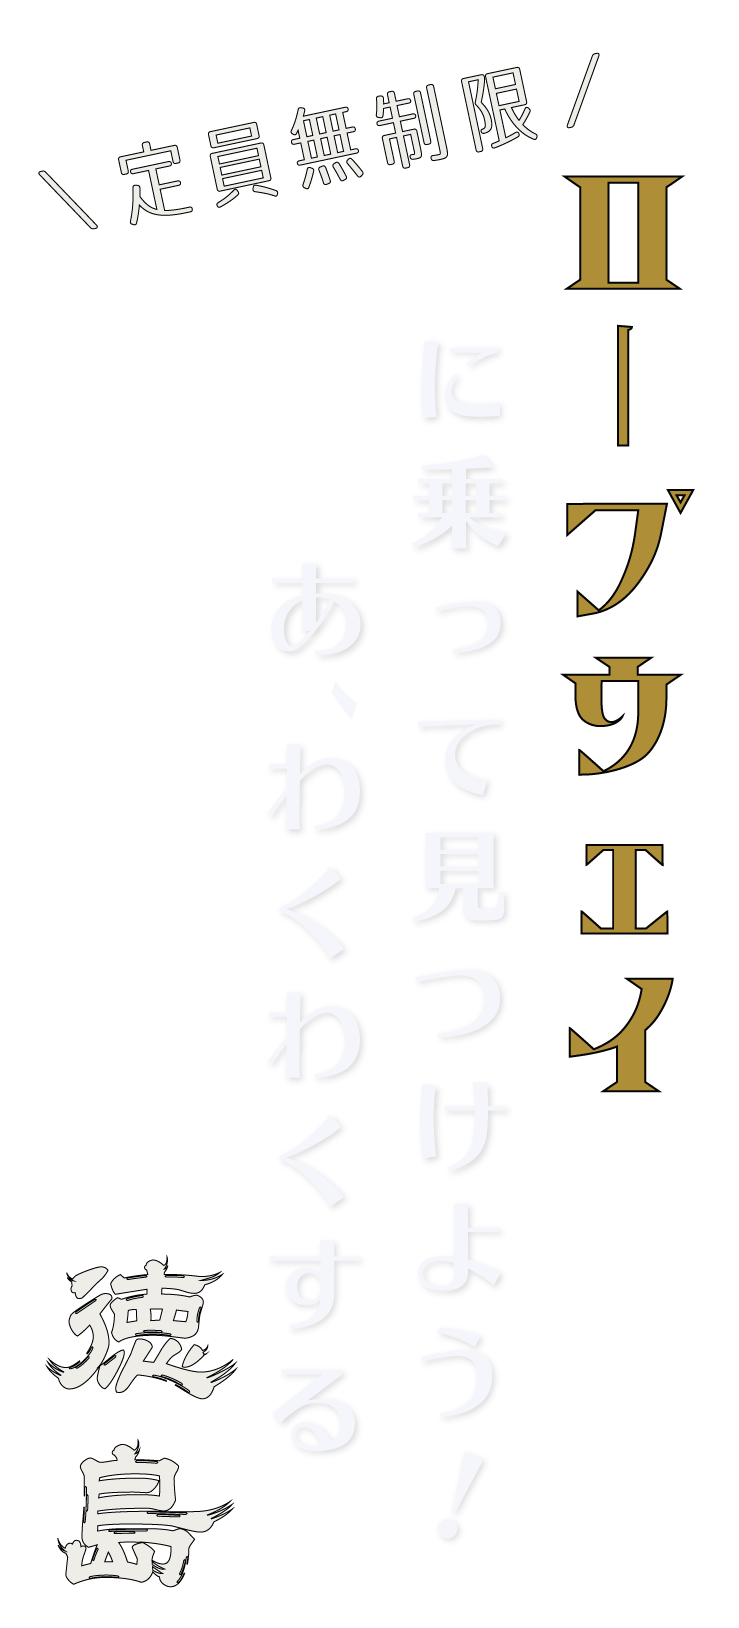
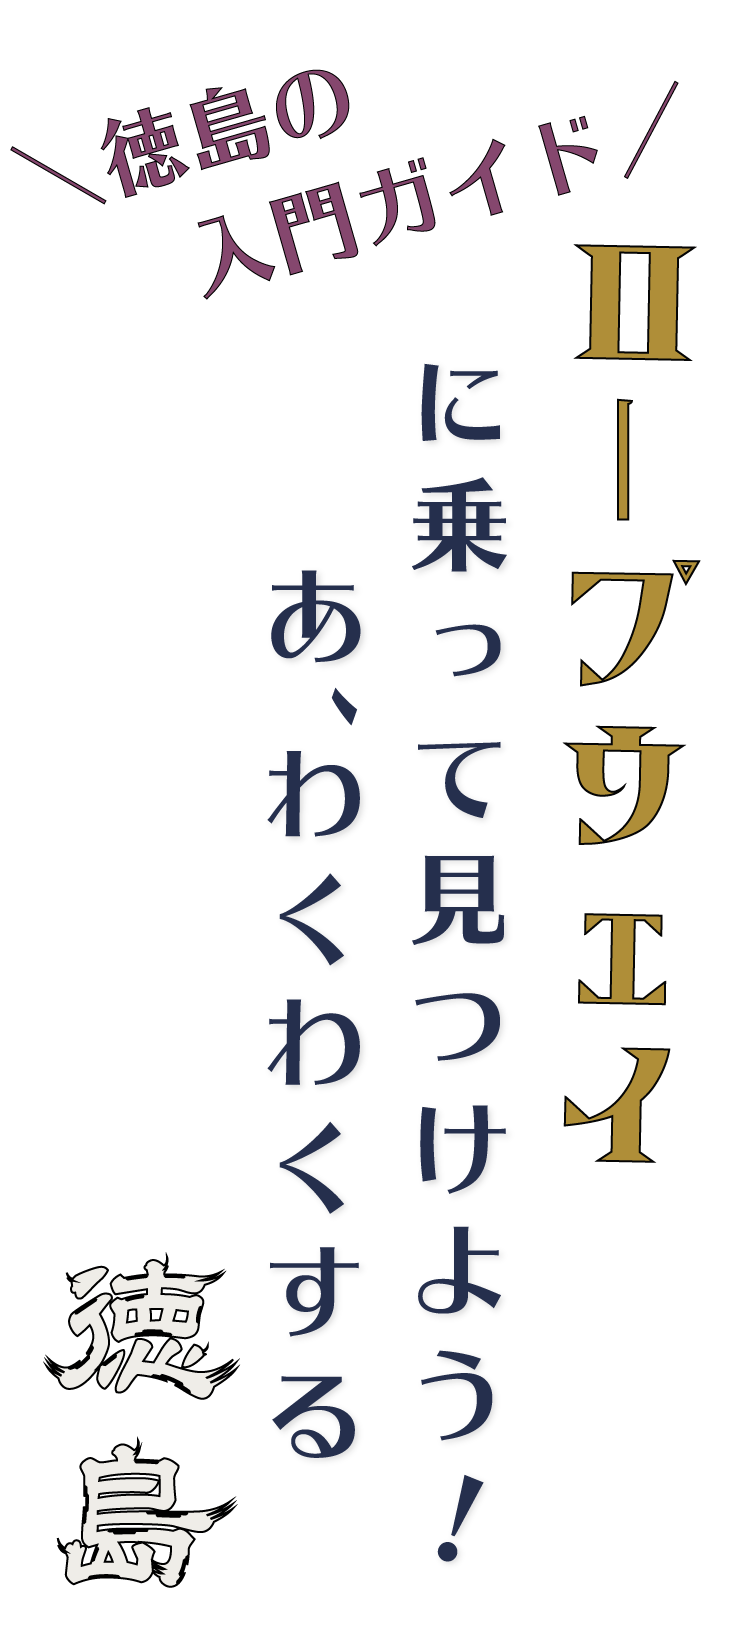
新しいコードを追加

diff --git a/assets/js/sogo_common.js b/assets/js/sogo_common.js
@@ -1,22 +1,3 @@
-// //スライドさせるボタンのID
-// const SLIDE_IN_BUTTON = document.getElementById("c-elevatorOpen");
-// //スライドを閉じるボタンのID
-// const SLIDE_OFF_BUTTON = document.getElementById("c-elevatorClose");
-// //アニメーションを追加する場所のID
-// const BURGER = document.getElementById("p-header__contentsBurger");
-// //スライドさせる。（クラス名「slide-in」を追加する。）
-// SLIDE_IN_BUTTON.addEventListener("click", function () {
-//     //クラスを切り替える
-//     BURGER.classList.remove("slide-off");
-//     BURGER.classList.add("slide-in");
-// });
-// //スライドを閉じる。クラス名「slide-off」を追加する。
-// SLIDE_OFF_BUTTON.addEventListener("click", function () {
-//     //クラスを切り替える
-//     BURGER.classList.remove("slide-in");
-//     BURGER.classList.add("slide-off");
-// });
-
 // ヘッダーナビ
 jQuery(function () {
     jQuery('.p-header__navListDetail').hide();
@@ -76,71 +57,3 @@ jQuery('.c-footer__contentsPartsBtn').on("click", function () {
             })
     }
 });
-
-// 地下からのページ内リンク
-jQuery('#page-link a[href^="#"]').click(function () {
-    var adjust = 120;
-    var speed = 400;
-    var elmHash = jQuery(this).attr('href');
-    var pos = jQuery(elmHash).offset().top - adjust;
-    console.log('hello');
-    jQuery('body,html').animate({ scrollTop: pos }, speed, 'swing');
-    return false;
-});
-
-// // ヘッダーナビ
-// jQuery(function () {
-//     jQuery('.p-header__navListDetail').hide();
-//     jQuery('.p-header__navList').click(function () {
-//         jQuery(this).next('.p-header__navListDetail').slideToggle();
-//         jQuery('.p-header__navList').not(jQuery(this)).next('.p-header__navListDetail').slideUp();
-//     });
-// });
-// jQuery(document).on('click', function (e) {
-//     if (!jQuery(e.target).closest('.p-header__navList').length) {
-//         jQuery('.p-header__navList').next('.p-header__navListDetail').slideUp();
-//     }
-// });
-
-// // ハンバーガーボタン
-// jQuery(function () {
-//     jQuery('.c-burgerBtn').click(function () {
-//         jQuery(this).toggleClass("slide-in");
-//         if (jQuery(this).hasClass('slide-in')) {
-//             jQuery('.c-burgerBtn , .p-header__contentsBurger').addClass('slide-in');
-//         } else {
-//             jQuery('.c-burgerBtn , .p-header__contentsBurger').removeClass('slide-in');
-//         }
-//     });
-// });
-
-// // バーガーメニュー
-// jQuery(function () {
-//     jQuery('.p-BurgerNavDetail').hide();
-//     jQuery('.c-header__contentsBurgerNavBtn').click(function () {
-//         jQuery(this).next().slideToggle();
-//         jQuery('.c-header__contentsBurgerNavBtn').not(jQuery(this)).next().slideUp();
-//     });
-// });
-// jQuery(document).on('click', function (e) {
-//     if (!jQuery(e.target).closest('.c-header__contentsBurgerNavBtn').length) {
-//         jQuery('.c-header__contentsBurgerNavBtn').next('.p-BurgerNavDetail').slideUp();
-//     }
-// });
-
-// //フッター
-// jQuery('.c-footer__contentsPartsBtn').on("click", function () {
-//     var width = jQuery(window).width();
-//     if (width < 1025) {
-//         console.log(width);
-//         jQuery(this).next().slideToggle();
-//         jQuery('.c-footer__contentsPartsBtn').not(jQuery(this)).next().slideUp();
-//     }
-// });
-
-// //これは独立させる
-// jQuery(document).on('click', function (e) {
-//     if (!jQuery(e.target).closest('.c-footer__contentsPartsBtn').length) {
-//         jQuery('.c-footer__contentsPartsBtn').next('.c-footer__contentsDetail').slideUp();
-//     }
-// });

diff --git a/assets/css/basebefo.css b/assets/css/basebefo.css
@@ -170,8 +170,12 @@ main {
   display: inline-block;
   width: 100%;
   height: 26px;
-  padding-top: 6px;
+  /* padding-top: 6px; */
   text-align: center;
+  color: #000000;
+  border-radius: 4px 0 0 4px;
+  font-size: 18px;
+  line-height: 26px;
 }
 
 .lift5 {
@@ -184,8 +188,12 @@ main {
   display: inline-block;
   width: 100%;
   height: 26px;
-  padding-top: 6px;
+  /* padding-top: 6px; */
   text-align: center;
+  color: #000000;
+  border-radius: 4px 0 0 4px;
+  font-size: 18px;
+  line-height: 26px;
 }
 
 .lift4 {
@@ -198,8 +206,12 @@ main {
   display: inline-block;
   width: 100%;
   height: 26px;
-  padding-top: 6px;
+  /* padding-top: 6px; */
   text-align: center;
+  color: #000000;
+  border-radius: 4px 0 0 4px;
+  font-size: 18px;
+  line-height: 26px;
 }
 
 .lift3 {
@@ -212,8 +224,12 @@ main {
   display: inline-block;
   width: 100%;
   height: 26px;
-  padding-top: 6px;
+  /* padding-top: 6px; */
   text-align: center;
+  color: #000000;
+  border-radius: 4px 0 0 4px;
+  font-size: 18px;
+  line-height: 26px;
 }
 
 .lift2 {
@@ -226,8 +242,12 @@ main {
   display: inline-block;
   width: 100%;
   height: 26px;
-  padding-top: 6px;
+  /* padding-top: 6px; */
   text-align: center;
+  color: #000000;
+  border-radius: 4px 0 0 4px;
+  font-size: 18px;
+  line-height: 26px;
 }
 
 .lift1 {
@@ -240,8 +260,12 @@ main {
   display: inline-block;
   width: 100%;
   height: 26px;
-  padding-top: 6px;
+  /* padding-top: 6px; */
   text-align: center;
+  color: #000000;
+  border-radius: 4px 0 0 4px;
+  font-size: 18px;
+  line-height: 26px;
 }
 
 .p-instaArea {

diff --git a/assets/css/front-page.css b/assets/css/front-page.css
@@ -111,7 +111,7 @@
 
 /* 『このサイトの使い方』 */
 .p-floorBlock_info {
-  padding: 4% 15%;
+  padding: 4% 10%;
   position: relative;
 }
 
@@ -240,10 +240,12 @@
 .c-specialLink {
   display: inline-block;
   height: 80%;
+  color:#2d294f;
 }
 
 .c-specialLink:hover {
   transform: scale(1.1);
+  color: #cf7e7c;
 }
 
 /* 都市伝説の階のリンク */
@@ -384,6 +386,30 @@
     min-width: 100px;
     position: absolute;
     top: 90%;
+    transform: translate(0, -90%);
+    left: -10%;
+    display: block;
+  }
+
+  .c-fukidashi {
+    height: auto;
+    width: 30%;
+    min-width: 100px;
+    position: absolute;
+    top: -5%;
+    transform: translate(-30%, -15%);
+    left: -20%;
+    display: block;
+  }
+}
+
+/* @media (min-width: 768px) {
+  .c-awaodori {
+    height: auto;
+    width: 18%;
+    min-width: 100px;
+    position: absolute;
+    top: 90%;
     transform: translate(0, -100%);
     left: 0;
     display: block;
@@ -392,15 +418,14 @@
   .c-fukidashi {
     height: auto;
     width: 22%;
-  min-width: 100px;
-
+    min-width: 100px;
     position: absolute;
     top: 10%;
     transform: translate(0, 0);
     left: -15%;
     display: block;
   }
-}
+} */
 
 .p-floorBlock {
   text-align: center;
@@ -460,6 +485,10 @@
   }
 }
 
+#sb_instagram #sbi_load .sbi_load_btn, #sb_instagram .sbi_follow_btn a{
+  margin: 0;
+}
+
 .p-special {
   justify-content: space-around;
   padding: 2% 10% 0 10%;
@@ -491,7 +520,6 @@
   margin-bottom: 2vw;
   color: #2d294f;
   width: 150px;
-
   border: #2d294f 1px solid;
 }
 

diff --git a/assets/css/base.css b/assets/css/base.css
@@ -670,7 +670,7 @@ a.c-header__navListDetail {
 @media (min-width: 1025px) {
   .c-footer__contentsDetail li a {
     display: block;
-    width: 200px;
+    width: 100px;
     padding: 14px 0 0 33%;
     color: #FFFFFF;
     font-size: 1.6rem;

diff --git a/front-page.php b/front-page.php
@@ -16,7 +16,7 @@
 
         <!-- elevatorArea -->
         <div class="p-elevatorArea u-bg3ea5c8">
-            <img src="<?php echo get_template_directory_uri(); ?>/assets/images/img_front_catchCopy02.png" class="c-catchCopy" alt="ロープウェイに乗って見つけよう！あ・わくわくする徳島">
+            <img src="<?php echo get_template_directory_uri(); ?>/assets/images/img_front_catchCopy.png" class="c-catchCopy" alt="ロープウェイに乗って見つけよう！あ・わくわくする徳島">
             <!-- class="u-mb20" -->
             <section id="js_6f" class="u-mb2p">
                 <div class="p-floorBlock6">
@@ -128,12 +128,12 @@
                 <h2 class="c-floorName u-bg2d294f u-mb10">ご案内</h2>
                 <div class="p-guideArea u-m0A">
                     <h3 class="c-guideTitle">このサイトの使い方</h3>
-                    <p class="c-floor__text">
-                        当サイトは“架空の案内所“をモチーフにし、徳島県の観光情報を掲載したサイトです。<br>
-                        実際に案内所に訪れた時のように、ぜひ一階から最上階までゆっくり楽しんでみてください！<br><br>
-                        行きたい所を見つけたら、「MYマップに追加」ボタンを押す事で、地図を作成することが出来ます。<br>
-                        ぜひ、自分だけの地図を作って遊んでみてください！
-                    </p>
+                    <li class="u-mb10">当サイトは“架空の案内所“をモチーフにし、徳島県の観光情報を掲載したサイトです。
+                        <br>
+                        実際に案内所に訪れた時のように、一階から最上階までゆっくり楽しんでみてください！
+                    </li>
+                    <li>行きたい場所を見つけたら、<span>「MYマップに追加」</span>ボタンを押す事で、MYマップに登録できます。<br>
+                        サイト上部の<span>「MYマップ」</span>ボタンを押せば自分だけの地図が完成です！</li>
                 </div>
             </div>
         </section>

diff --git a/taxonomy-area-west.php b/taxonomy-area-west.php
@@ -21,7 +21,7 @@
             <h2 class="c-heading u-center u-white u-west">徳島西部</h2>
             <div class="p-description__item u-flex">
                 <div class="c-description__text">
-                    県西部は日本百名山に名を連ねる「剣山」や、日本を代表する三大河川の一つで「四国三郎」と呼ばれる吉野川に囲まれており、壮大な自然を感じることができる。県西部の中でも絶景で激流の渓谷として知られている「大歩危」では、2017年ラフティング世界選手権が開催された。大会期間中、約3万人が来場した。また実際にラフティングを体験できる施設もあり、今もなお、多くの観光客を魅了している。他にも徳島を代表する観光スポット「祖谷のかずら橋」や「うだつの町並み」があり、どこか懐かしい、のどかな雰囲気を感じられるエリアである。
+                    県西部は日本百名山に名を連ねる「剣山」や、日本を代表する三大河川の一つで「四国三郎」と呼ばれる吉野川に囲まれており、壮大な自然を感じることができる。県西部の中でも絶景で激流の渓谷として知られている「大歩危」では、2017年ラフティング世界選手権が開催され、大会期間中は約3万人が来場した。また実際にラフティングを体験できる施設もあり、今もなお、多くの観光客を魅了している。他にも徳島を代表する観光スポット「祖谷のかずら橋」や「うだつの町並み」があり、どこか懐かしい、のどかな雰囲気を感じられるエリアである。
                 </div>
                 <div class="c-description__map">
                     <img src="<?php echo get_template_directory_uri(); ?>/assets/images/img_archive_west_map02.png" class="c-map" alt="徳島西部">

diff --git a/page-privacy.php b/page-privacy.php
@@ -20,7 +20,7 @@
                 <table class="p-pageTable">
                     <tr>
                         <th class="c-pageTable__th">個人情報の<br>取り扱いについて</th>
-                        <td class="c-pageTable__td">本プライバシーポリシーは、『徳島SOGO』（以下「本サイト」といいます。） の各種サービス（本サイトによる情報提供、お問い合わせ等）において、本サイトを利用する皆様の個人情報もしくはそれに準ずる情報を取り扱う際に、本サイトが遵守する方針を示したものです。</td>
+                        <td class="c-pageTable__td">本プライバシーポリシーは、『徳島SOGO館』（以下「本サイト」といいます。） の各種サービス（本サイトによる情報提供、お問い合わせ等）において、本サイトを利用する皆様の個人情報もしくはそれに準ずる情報を取り扱う際に、本サイトが遵守する方針を示したものです。</td>
                     </tr>
                 </table>
             </section>
